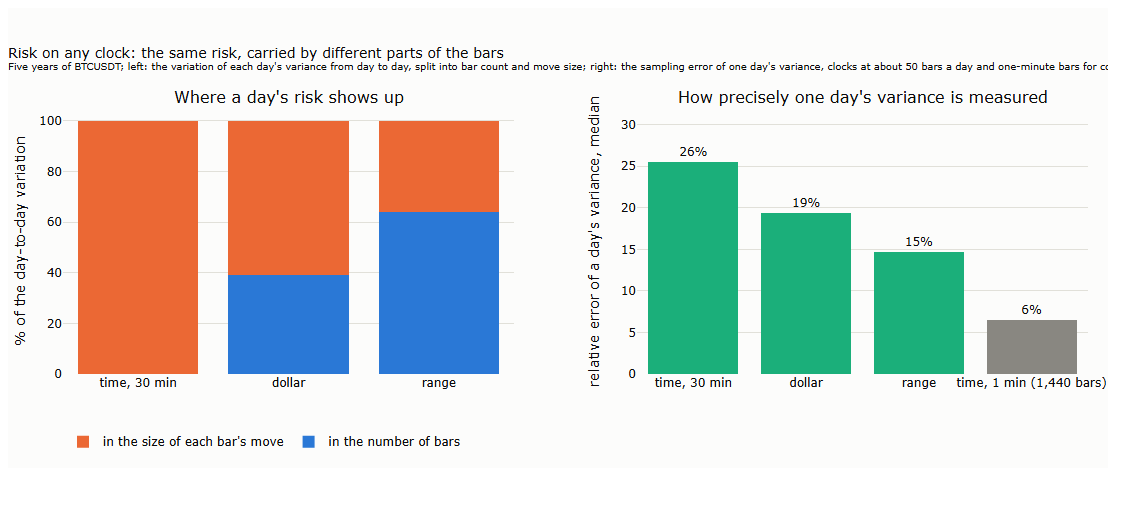
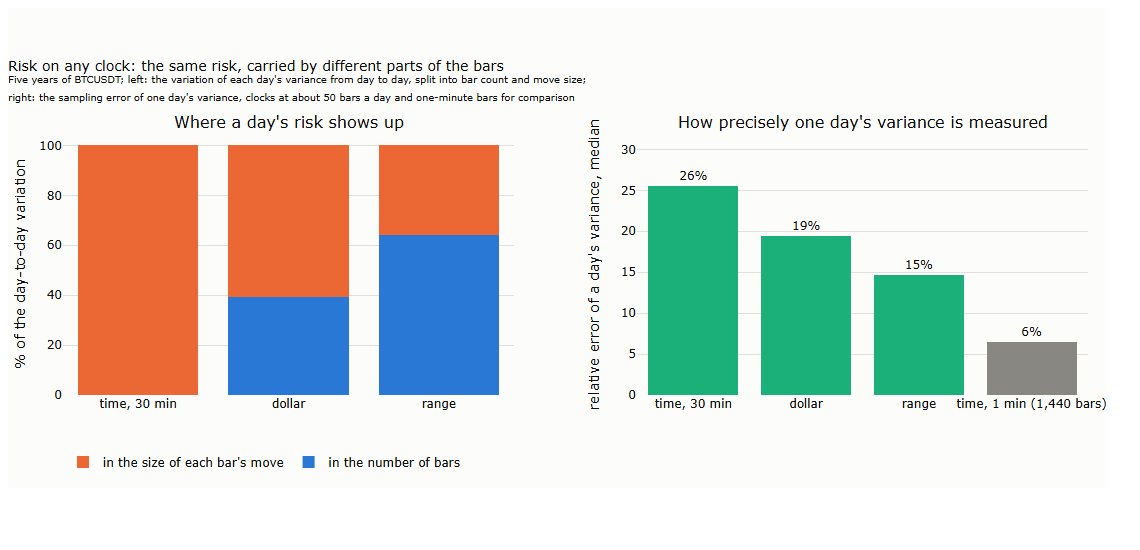
Lecture 14: figures 14_08, 14_10 and 14_11 redrawn without cut or overlapping labels (#283)
14_08: y-axis title 'measure ÷ one-minute realised variance'; 14_10: one x-axis title
under the middle panel instead of three overlapping; 14_11: subtitle on two lines.
Same data; 14_07 and 14_09, also written by l14_s5.py, came out byte-identical.

diff --git a/lectures/14-volatility-and-the-path/scripts/l14_s6.py b/lectures/14-volatility-and-the-path/scripts/l14_s6.py
@@ -52,7 +52,7 @@ fig.update_yaxes(title_text="% of the day-to-day variation", range=[0, 105], row
 fig.update_yaxes(title_text="relative error of a day's variance, median", range=[0, 32], row=1, col=2)
 fig.update_xaxes(tickvals=pl_, ticktext=["time, 30 min", "dollar", "range", "time, 1 min (1,440 bars)"], row=1, col=2)
 fig.update_layout(title="Risk on any clock: the same risk, carried by different parts of the bars<br><sup>Five years of BTCUSDT; left: the variation of each day's variance from day to day, split "
-                        "into bar count and move size; right: the sampling error of one day's variance, clocks at about 50 bars a day and one-minute bars for comparison</sup>",
-                  height=460, width=1100, margin=dict(t=100), legend=dict(orientation="h", y=-0.2, x=0))
+                        "into bar count and move size;<br>right: the sampling error of one day's variance, clocks at about 50 bars a day and one-minute bars for comparison</sup>",
+                  height=480, width=1100, margin=dict(t=125), legend=dict(orientation="h", y=-0.2, x=0))
 save_figure(fig, PREFIX + "14_11_risk_on_any_clock", FIG)
 (L14_RESULTS / "l14_s6.json").write_text(json.dumps(R, indent=1))

diff --git a/lectures/14-volatility-and-the-path/scripts/l14_forecast_chart.py b/lectures/14-volatility-and-the-path/scripts/l14_forecast_chart.py
@@ -26,7 +26,8 @@ for c, (f, _) in enumerate(FILES, start=1):
         x = [100 * (q0 - R[h][m]["qlike"]) / q0 for m in MEAS]; out[f][h] = dict(zip(MEAS, [round(v, 1) for v in x]))
         fig.add_scatter(x=x, y=MEAS, mode="markers", marker=dict(size=11, color=col), name=lab, legendgroup=lab, showlegend=(c == 1), row=1, col=c)
 fig.update_yaxes(categoryorder="array", categoryarray=MEAS[::-1])
-fig.update_xaxes(title_text="less forecast error than squared hourly returns, %", range=[0, 30])
+fig.update_xaxes(range=[0, 30])
+fig.update_xaxes(title_text="forecast error cut, % (against squared hourly returns)", row=1, col=2)
 fig.update_layout(title="Using the inside of the bar cuts the forecast error by 7% to 26%; which form matters little<br><sup>Risk of the next 1, 4 and 24 hours on hourly bars, "
                         "out of sample July 2023 to September 2026, scored against three yardsticks built in different ways; each measure does best against the yardstick built like itself</sup>",
                   height=430, width=1100, margin=dict(t=100, l=170), legend=dict(orientation="h", y=-0.22, x=0))

diff --git a/lectures/14-volatility-and-the-path/scripts/l14_s5.py b/lectures/14-volatility-and-the-path/scripts/l14_s5.py
@@ -111,7 +111,7 @@ for lab, col in (("realised variance", SERIES[0]), ("bipower", SERIES[3]), ("rea
     fig.add_scatter(x=xx, y=yy, mode="lines+markers", line=dict(color=col, width=2.3), marker=dict(size=7), name=lab)
 fig.add_hline(y=1, line=dict(color=MUTED, dash="dot"))
 fig.update_xaxes(type="log", tickvals=[1, 10, 60, 600, 3600, 86400, 604800], ticktext=["1 s", "10 s", "1 min", "10 min", "1 hour", "1 day", "1 week"], title_text="length of the bars the measure uses")
-fig.update_yaxes(title_text="÷ realised variance from one-minute returns", range=[0.5, 1.12])
+fig.update_yaxes(title_text="measure ÷ one-minute realised variance", range=[0.5, 1.12])
 fig.update_layout(title="Each measure has its own best interval<br><sup>Realised variance and bipower peak around a minute; the realised range (Parkinson per bar) needs bars of five minutes "
                         "or more and then stays level. Below a minute from 59 sample days, above from all days</sup>", height=470, width=1100, margin=dict(t=100),
                   legend=dict(orientation="h", y=-0.2, x=0))
